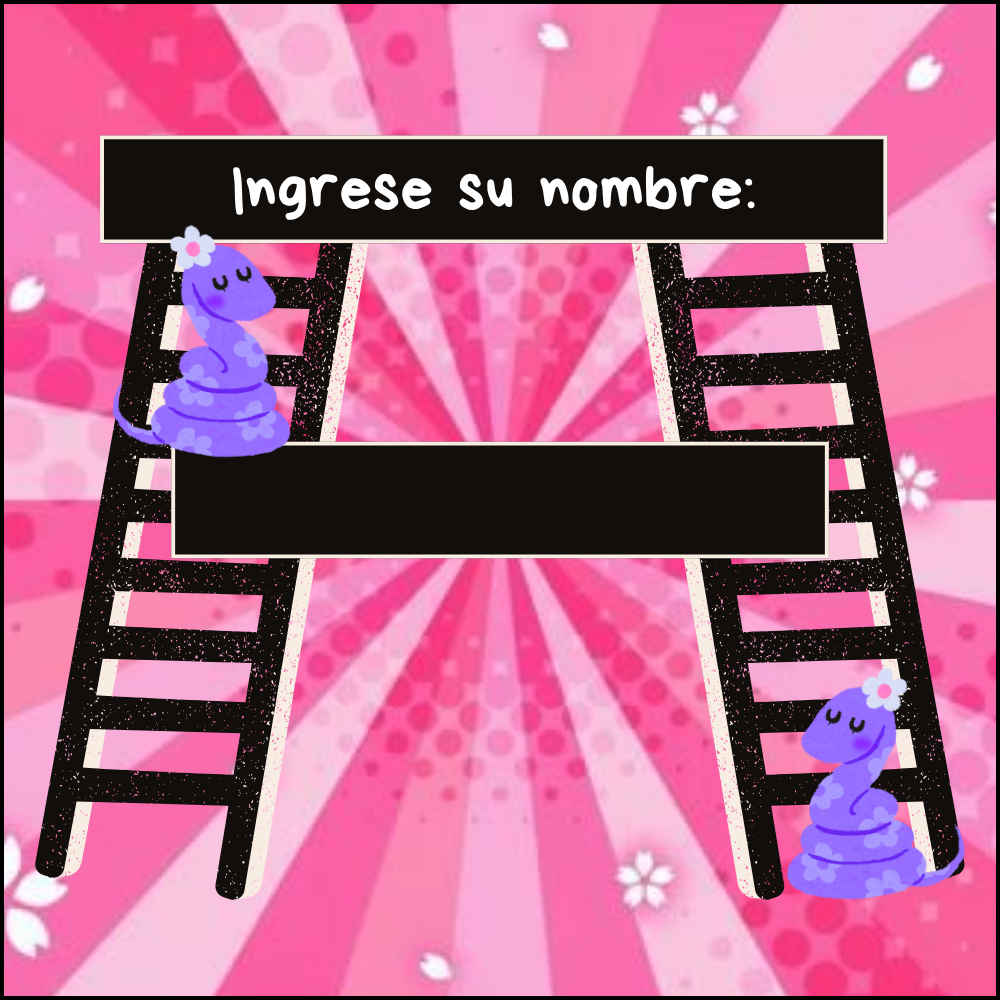
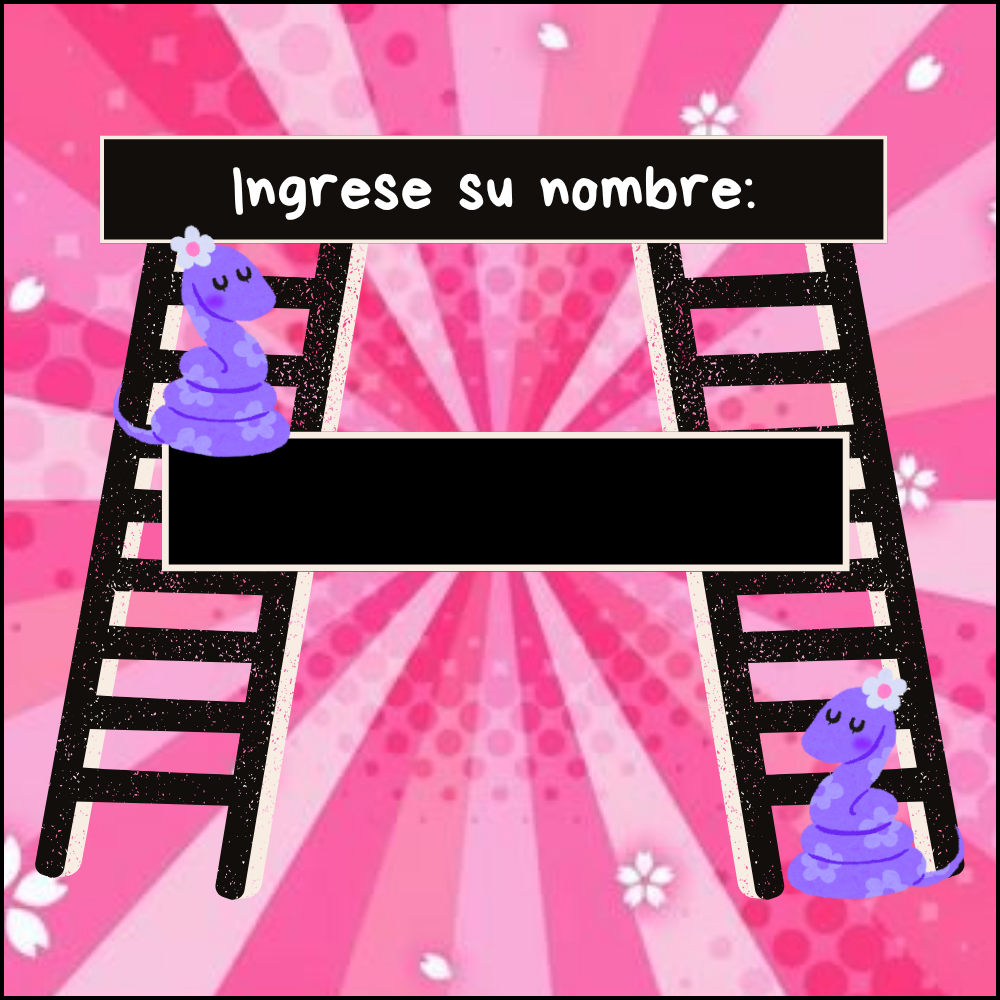
add.

Changed region(s): [[0.155, 0.434, 0.868, 0.589]]

diff --git a/pygame/VIDEO_JUEGO/run_preguntas.py b/pygame/VIDEO_JUEGO/run_preguntas.py
@@ -2,11 +2,17 @@ import pygame
 from copy import deepcopy
 from modulo_aux import *
 
-def pygm_input (rectangulo:vars, color: tuple, fuente:vars)-> str:
+def pygm_input (screen:vars, rectangulo:vars, color_rect:tuple, color: tuple, fuente:vars)-> str:
 
     running = True
 
+    txt = ""
+
+    activo = False
+    
     while running == True:
+
+        pygame.draw.rect(screen, color_rect, rectangulo)
 
         lista_eventos = pygame.event.get ()
 
@@ -15,33 +21,35 @@ def pygm_input (rectangulo:vars, color: tuple, fuente:vars)-> str:
             if evento.type == pygame.QUIT:
                 running = False
 
-            if evento.type == pygame.MOUSEBUTTONDOWN:
-                    
-                    lista_posicion = list (evento.pos)
+            if evento.type == pygame.MOUSEBUTTONDOWN:   
+                activo = rectangulo.collidepoint(evento.pos)
 
-                    if rectangulo.collidepoint(lista_posicion):
-                        
-                        if evento.type == pygame.KEYDOWN:
-                            
-                            if evento.key == pygame.K_RETURN:
-                                running = False
-                            elif evento.key == pygame.K_BACKSPACE:
-                                txt = txt[:-1]
-                            else:
+            if evento.type == pygame.KEYDOWN:
+
+                if activo != False:            
+                    if evento.key == pygame.K_RETURN:
+                        running = False
+                    elif evento.key == pygame.K_BACKSPACE:
+                        txt = txt[:-1]
+                    else:
+                        txt += evento.unicode
+
+        font_input_surface = fuente.render(txt, True, color) 
+        screen.blit(font_input_surface, ( rectangulo.x + 15, rectangulo.y + 15 ))
+        
+        #mostrar los cambios en la pantalla
+        pygame.display.flip()
+
+    return txt
                                 
-                        
-
-
-def pantalla_nombre (screen)->callable:
+def pantalla_nombre (screen, color, color_rect, fuente)->callable:
 
     fondo = atribuir_fondo ("imagenes\ing_nom.png") # \ -> /
     screen.blit(fondo, (0,0))
     pygame.display.flip()
-    rect_nombre = pygame.Rect(left, top, width, height)
+    rect_nombre = pygame.Rect(171.1, 441.6, 657.7, 116.8)
 
-    return pygm_input (rect_nombre)
-
-    
+    return pygm_input (screen, rect_nombre,color_rect, color, fuente)
 
 def mostrar_tablero (screen):
     tablero_png = atribuir_fondo ("imagenes\tablero.png")

diff --git a/pygame/VIDEO_JUEGO/juego.py b/pygame/VIDEO_JUEGO/juego.py
@@ -56,7 +56,7 @@ while running == True:
 
                 #Decidir que hacer en el menu
                 if rect_mn_jugar.collidepoint(lista_posicion):
-                    pantalla_nombre (screen)
+                    nombre = pantalla_nombre (screen, WHITE, BLACK, fuente)
                     primer = False
 
                 if rect_mn_puntos.collidepoint(lista_posicion):
